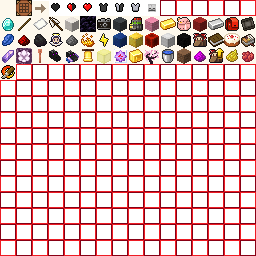
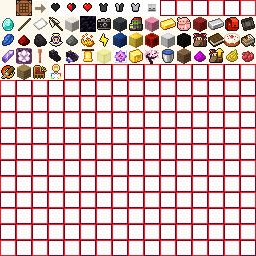
记忆中的幻想乡补充坐垫相关信息

Changed region(s): [[0.0625, 0.25, 0.25, 0.3125]]

diff --git a/MemorizableGensokyo/main.js b/MemorizableGensokyo/main.js
@@ -28,7 +28,7 @@ const key = ["book1", "book2", "book3"];
 const TEXT_PATH = "../TouHouLittleMaid_RP/texts/";
 const TEXT_STARTER = "### MG_AUTO_GENERATE_START ###";
 const TEXT_ENDER = "### MG_AUTO_GENERATE_END ###";
-const SCRIPT_PATH = "../TouHouLittleMaid_BP/scripts/src/book/MemorizableGensokyoUI.js"
+const SCRIPT_PATH = "../TouHouLittleMaid_BP/typescripts/src/book/MemorizableGensokyoUI.js"
 const SCRIPT_STARTER = "// MG_AUTO_GENERATE_START";
 const SCRIPT_ENDER = "// MG_AUTO_GENERATE_END";
 
@@ -65,17 +65,22 @@ function writeLang(name, str){
  */
 function writeScript(pages){
     let res = fs.readFileSync(SCRIPT_PATH, "utf-8");
-    let str = `const BOOK = [${pages.toString()}];\n`
-
-    let starter = res.indexOf(SCRIPT_STARTER);
-    let ender = res.indexOf(SCRIPT_ENDER);
-    if(starter >= 0 && ender >= 0){
-        res = res.substring(0, starter) + SCRIPT_STARTER + '\n' + str + res.substring(ender);
+    // 仅更新 BOOK 数组，保留同区域内的其它常量（如 BOOK_OP）
+    if(/const BOOK = \[[^\]]*\]/.test(res)){
+        res = res.replace(/const BOOK = \[[^\]]*\]/, `const BOOK = [${pages.toString()}]`);
     }
     else{
-        res += SCRIPT_STARTER + "\n";
-        res += str + "\n";
-        res += SCRIPT_ENDER + "\n";
+        let str = `const BOOK = [${pages.toString()}];\n`
+        let starter = res.indexOf(SCRIPT_STARTER);
+        let ender = res.indexOf(SCRIPT_ENDER);
+        if(starter >= 0 && ender >= 0){
+            res = res.substring(0, starter) + SCRIPT_STARTER + '\n' + str + res.substring(ender);
+        }
+        else{
+            res += SCRIPT_STARTER + "\n";
+            res += str + "\n";
+            res += SCRIPT_ENDER + "\n";
+        }
     }
     
     fs.writeFile(SCRIPT_PATH, res, 'utf8', (err) => {

diff --git a/MemorizableGensokyo/books/zh_CN.js b/MemorizableGensokyo/books/zh_CN.js
@@ -227,7 +227,9 @@ export const book3 = [
 记忆中的幻想乡.............................1
 御币................................................2
 落雷................................................5
-黄金微波炉...................................6`
+黄金微波炉...................................6
+自定义坐垫...................................8
+坐垫显示器.................................10`
 },
 { type: "craft", recipe: "memorizable_gensokyo.json", content:
 `
@@ -280,6 +282,26 @@ $recipe$`
 `
 §l龙头§r
    青金石、雷霆之杖、紫水晶、龙首、紫颂花。放在黄金微波炉加热获得神秘尘。
+
+$recipe$`
+},
+{ type: "craft", recipe: "chair.json", content:
+`
+§l自定义坐垫§r
+  自定义坐垫是纯装饰向的物品，右击方块放置。潜行左击能够打掉它。右击能够坐上，潜行右击可以打开切换坐垫样式的界面。
+
+$recipe$`
+},
+{ type: "text", content:
+`
+  坐垫模型可以完全自定义，也可通过资源包快捷添加自定义模型。
+`
+},
+{ type: "craft", recipe: "chair_show.json", content:
+`
+§l坐垫显示器§r
+  潜行时手持此物品，附近的坐垫会显示碰撞箱。
+
 
 $recipe$`
 }

diff --git a/MemorizableGensokyo/books/en_US.js b/MemorizableGensokyo/books/en_US.js
@@ -203,7 +203,9 @@ export const book3 = [
 Memorizable Gensokyo..1
 Gohei............................................2
 Lighting......................................3
-Gold Microwave Oven.....4`
+Gold Microwave Oven.....4
+Custom Cushion......................8
+Chair Hitbox Displayer......10`
 },
 { type: "craft", recipe: "memorizable_gensokyo.json", content:
 `§lMemorizable Gensokyo§r
@@ -250,6 +252,24 @@ $recipe$`
 { type: "craft", recipe: "dragon_skull.json", content:
 `§lDragon skull§r
    Lapis lazis, lightning rod, amethyst, dragon skull, chorus flower.
+
+$recipe$`
+},
+{ type: "craft", recipe: "chair.json", content:
+`§lCustom Cushion§r
+  A decorative seat. Right-click a block to place it. Crouch left-click to pick it up. Right-click to sit, crouch right-click to open the model switch GUI.
+
+$recipe$`
+},
+{ type: "text", content:
+`
+  The cushion model can be fully customized, and you can also add custom models quickly through resource packs.
+`
+},
+{ type: "craft", recipe: "chair_show.json", content:
+`§lChair Hitbox Displayer§r
+  Crouch while holding this item to show nearby chairs' collision boxes.
+
 
 $recipe$`
 }

diff --git a/MemorizableGensokyo/RecipeResolver.js b/MemorizableGensokyo/RecipeResolver.js
@@ -20,10 +20,13 @@ export function resolveRecipe(recipe){
     // 有序合成
     if(recipe["minecraft:recipe_shaped"] !== undefined){
         let info = recipe["minecraft:recipe_shaped"];
-        // 解析九宫格
-        let res = Array.from(info["pattern"][0]);
-        res = res.concat(Array.from(info["pattern"][1]));
-        res = res.concat(Array.from(info["pattern"][2]));
+        // 解析九宫格（不足 3 行时在下方补空行，行宽不足 3 时右侧补空格）
+        let res = [];
+        for(let row = 0; row < 3; row++){
+            let line = info["pattern"][row] ?? "   ";
+            while(line.length < 3) line += " ";
+            res = res.concat(Array.from(line.substring(0, 3)));
+        }
 
         // 解析物品，得到标识符
         let names = {};

diff --git a/MemorizableGensokyo/ItemList.js b/MemorizableGensokyo/ItemList.js
@@ -72,7 +72,14 @@ const itemFont = {
     // 雕刻刀
     "minecraft:yellow_dye": 0x3E,
     "minecraft:red_dye": 0x3F,
-    "touhou_little_maid:chisel": 0x40
+    "touhou_little_maid:chisel": 0x40,
+
+    // 坐垫 / 坐垫显示器
+    "minecraft:wool": 0x19, // 复用粉色羊毛图标
+    "minecraft:planks": 0x41,
+    "touhou_little_maid:chair": 0x42,
+    "tlmsi:chair_show": 0x43,
+    "touhou_little_maid:chair_show": 0x43
 };
 
 /**

diff --git a/TouHouLittleMaid_BP/typescripts/src/book/MemorizableGensokyoUI.js b/TouHouLittleMaid_BP/typescripts/src/book/MemorizableGensokyoUI.js
@@ -4,7 +4,7 @@ import * as mcui from '@minecraft/server-ui';
 
 // 书本各章节的页码号(自动生成)
 // MG_AUTO_GENERATE_START
-const BOOK = [12, 16, 10];
+const BOOK = [14,16,12];
 const BOOK_OP = 10; // op 章节
 // MG_AUTO_GENERATE_END
 

diff --git a/SkinPacksConvertor/README.md b/SkinPacksConvertor/README.md
@@ -97,8 +97,8 @@ npm run convert:built-in
   - [x] 添加坐垫合成表
   - [x] 不要分两个文件导出皮肤包和坐垫的数据，导出单个command.txt就行，和网站展示的一致
   - [x] 添加坐垫高度解析 mounted_height
-  - [ ] 添加坐垫无重力解析 no_gravity
-  - [ ] 记忆中的幻想乡补充坐垫相关信息
+  - [x] 因为有精准高度计算，暂时不添加坐垫无重力解析 no_gravity
+  - [x] 记忆中的幻想乡补充坐垫相关信息
 
 - [x] 网站的数据栏增加一个复制按钮，并调整UI，使其可以自动换行和滚动查看
 - [ ] 支持解析单模型对应多贴图
